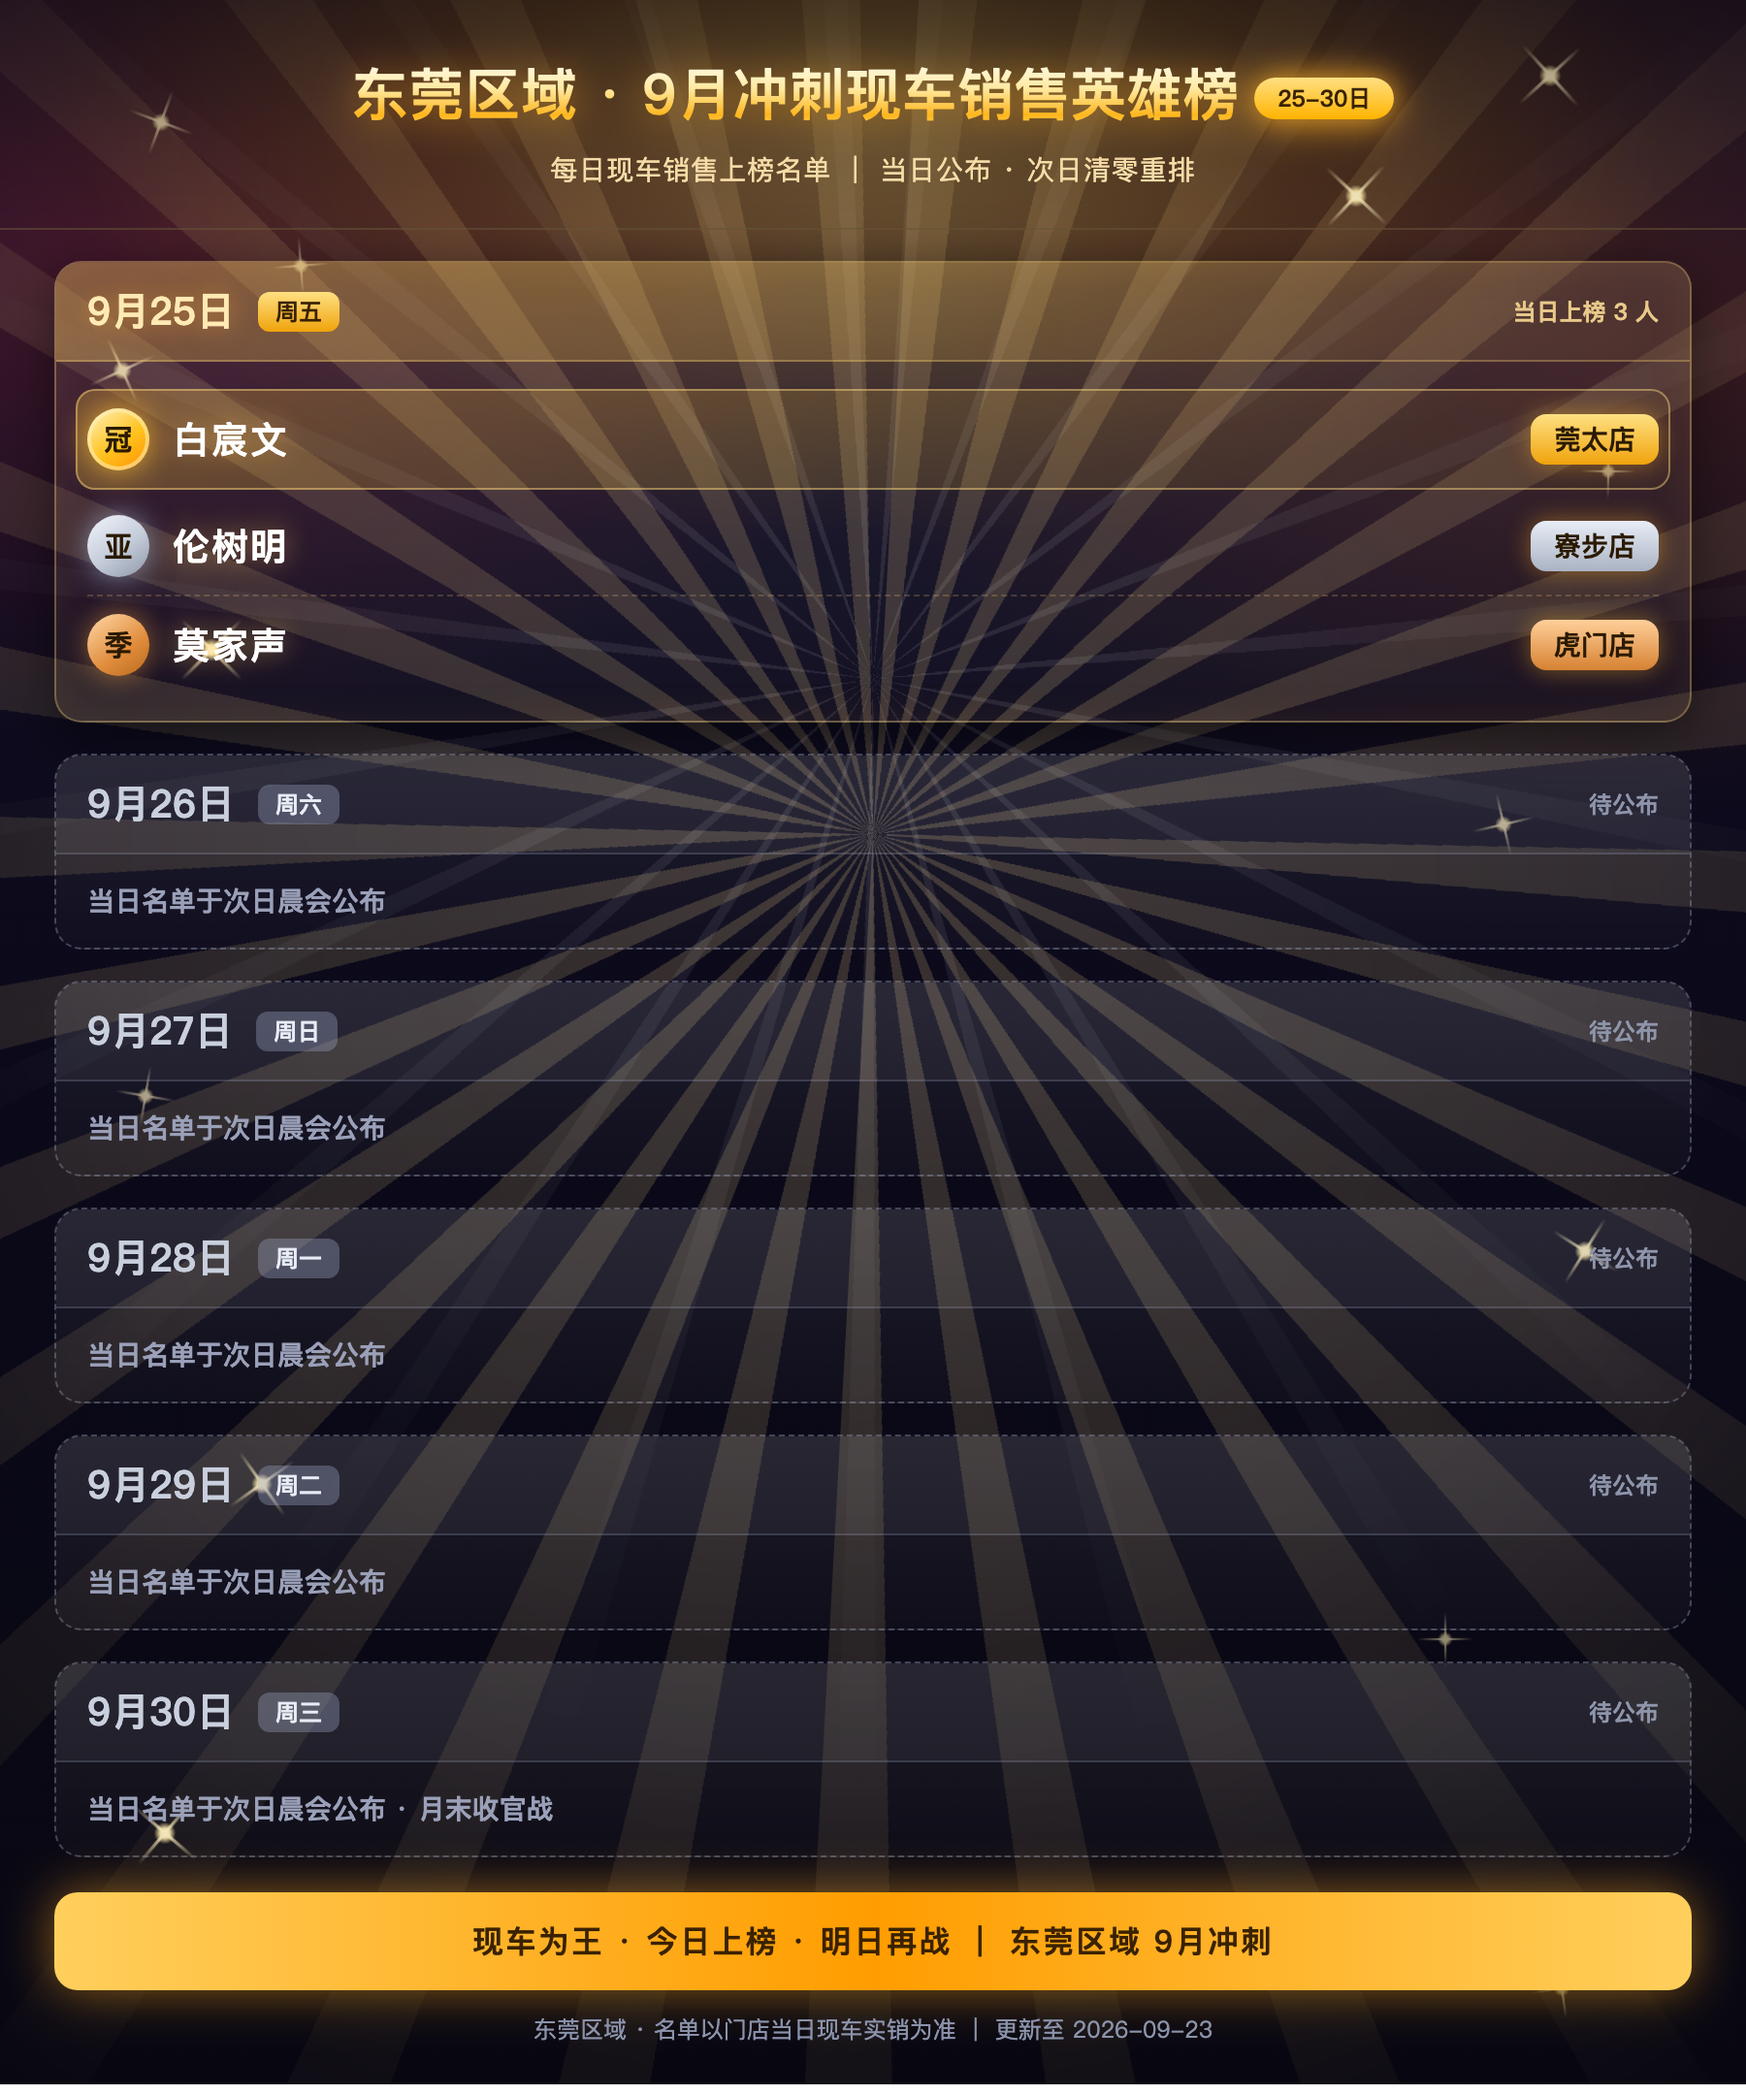
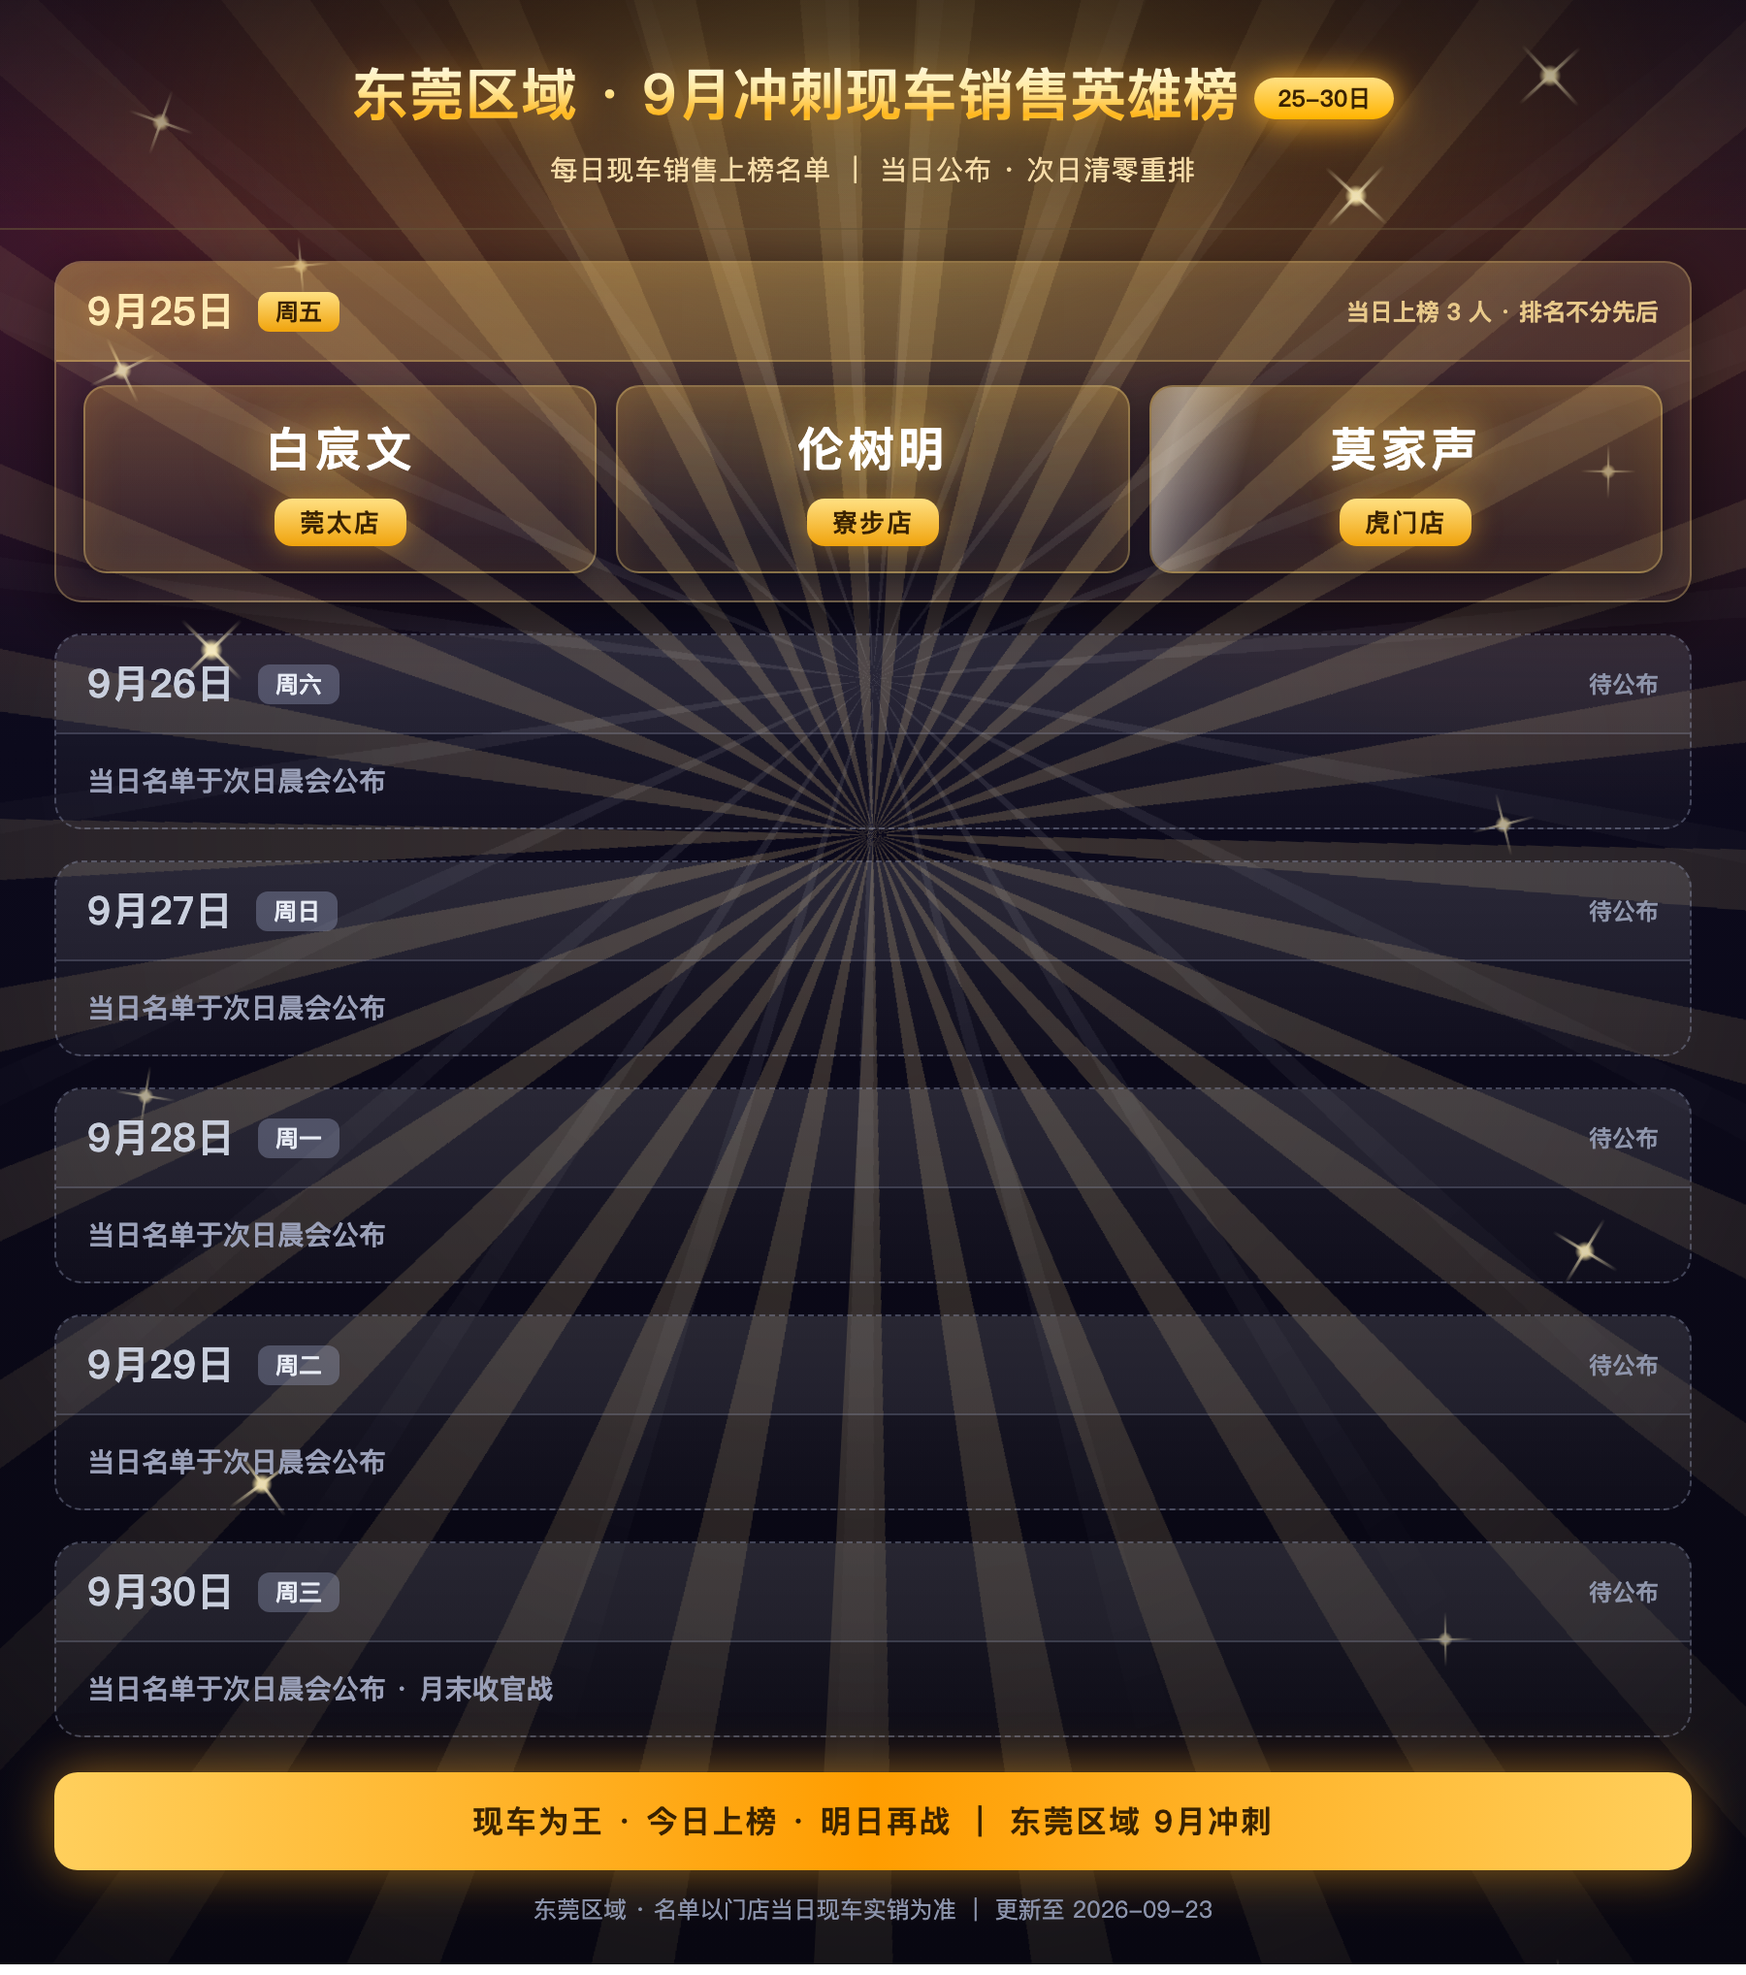
不分名次：三列上榜卡，名字高亮居上、门店金色胶囊居下

diff --git a/index.html b/index.html
@@ -75,26 +75,22 @@
      background:linear-gradient(180deg,#ffe082,#f0a30c);}
   .btag{margin-left:auto;font-size:12px;font-weight:700;color:#e8c98a;}
 
-  .list{padding:10px 16px 14px;}
-  .item{display:flex;align-items:center;gap:12px;padding:9px 0;border-bottom:1px dashed rgba(255,215,120,.20);}
-  .item:last-child{border-bottom:none;}
-  .rk{width:32px;height:32px;border-radius:50%;display:flex;align-items:center;justify-content:center;
-     color:#2b1a00;font-size:15px;font-weight:900;flex:none;}
-  .rk.g1{background:linear-gradient(145deg,#fff3c4,#ffc21e 55%,#ff8f00);box-shadow:0 0 16px rgba(255,190,50,.85),0 0 0 2px rgba(255,240,190,.55) inset;}
-  .rk.g2{background:linear-gradient(145deg,#f2f5fb,#c3cbd9 55%,#8e97a8);box-shadow:0 0 14px rgba(200,215,240,.55);}
-  .rk.g3{background:linear-gradient(145deg,#ffd9a8,#e08c3c 60%,#b96a1e);box-shadow:0 0 14px rgba(230,150,60,.6);}
-  .nm{font-size:19px;font-weight:900;color:#fff;text-shadow:0 0 14px rgba(255,200,90,.45);letter-spacing:1px;}
-  .st{margin-left:auto;font-size:14px;font-weight:800;color:#2b1a00;border-radius:8px;padding:3px 12px;
-     background:linear-gradient(180deg,#ffe082,#f0a30c);box-shadow:0 0 12px rgba(255,180,40,.45);}
-  .st.g2{background:linear-gradient(180deg,#e8edf6,#aab3c4);}
-  .st.g3{background:linear-gradient(180deg,#ffcf9a,#d68232);}
-
-  .item.top{position:relative;margin:4px -6px 4px;padding:10px 6px;border-radius:10px;border-bottom:none;
-     background:linear-gradient(90deg,rgba(255,200,60,.26),rgba(255,200,60,.04));
-     box-shadow:0 0 0 1px rgba(255,220,130,.45) inset;}
-  .item.top::after{content:'';position:absolute;inset:0;border-radius:10px;pointer-events:none;
-     background:linear-gradient(105deg,rgba(255,255,255,0) 30%,rgba(255,255,255,.42) 48%,rgba(255,255,255,0) 62%);
-     animation:shine 3.2s linear infinite;}
+  /* 上榜人卡片：不排名次，名字高亮 + 门店置下 */
+  .list{display:grid;grid-template-columns:repeat(3,1fr);gap:10px;padding:12px 14px 14px;}
+  .hero{position:relative;text-align:center;padding:15px 8px 13px;border-radius:12px;overflow:hidden;
+     background:linear-gradient(180deg,rgba(255,206,84,.20),rgba(255,206,84,.035));
+     border:1px solid rgba(255,215,120,.36);
+     box-shadow:0 0 20px rgba(255,180,60,.14) inset, 0 4px 14px rgba(0,0,0,.35);}
+  .hero::after{content:'';position:absolute;inset:0;pointer-events:none;
+     background:linear-gradient(105deg,rgba(255,255,255,0) 30%,rgba(255,255,255,.40) 48%,rgba(255,255,255,0) 62%);
+     animation:shine 3.4s linear infinite;}
+  .hero:nth-child(2)::after{animation-delay:1.1s;}
+  .hero:nth-child(3)::after{animation-delay:2.2s;}
+  .nm{display:block;font-size:24px;font-weight:900;color:#fff;letter-spacing:2px;
+     text-shadow:0 0 20px rgba(255,205,90,.85), 0 0 44px rgba(255,170,40,.45);}
+  .st{display:inline-block;margin-top:9px;font-size:13px;font-weight:800;color:#3a2200;letter-spacing:1px;
+     border-radius:9px;padding:3px 13px;
+     background:linear-gradient(180deg,#ffe082,#f0a30c);box-shadow:0 0 14px rgba(255,180,40,.5);}
   @keyframes shine{0%{transform:translateX(-120%);}60%,100%{transform:translateX(120%);}}
 
   .empty{padding:14px 16px;color:#9aa0b8;font-size:14px;font-weight:700;}
@@ -123,11 +119,10 @@
     .board{margin:12px 16px 0;}
     .bhead{padding:9px 12px;gap:8px;}
     .bdate{font-size:17px;}
-    .list{padding:8px 12px 10px;}
-    .item{gap:9px;padding:7px 0;}
-    .rk{width:27px;height:27px;font-size:13px;}
-    .nm{font-size:16px;}
-    .st{font-size:12px;padding:2px 9px;}
+    .list{padding:10px 10px 12px;gap:7px;}
+    .hero{padding:11px 4px 10px;border-radius:10px;}
+    .nm{font-size:18px;letter-spacing:1px;}
+    .st{font-size:11.5px;padding:2px 8px;margin-top:7px;}
     .foot{margin:14px 16px 0;padding:11px 12px;font-size:13.5px;}
     .tip{margin:8px 16px 0;font-size:11px;}
     .spark::before{width:26px;} .spark::after{height:26px;}
@@ -163,12 +158,12 @@
   <section class='board'>
     <div class='bhead'>
       <span class='bdate'>9月25日</span><span class='bwk'>周五</span>
-      <span class='btag'>当日上榜 3 人</span>
+      <span class='btag'>当日上榜 3 人 · 排名不分先后</span>
     </div>
     <div class='list'>
-      <div class='item top'><span class='rk g1'>冠</span><span class='nm'>白宸文</span><span class='st'>莞太店</span></div>
-      <div class='item'><span class='rk g2'>亚</span><span class='nm'>伦树明</span><span class='st g2'>寮步店</span></div>
-      <div class='item'><span class='rk g3'>季</span><span class='nm'>莫家声</span><span class='st g3'>虎门店</span></div>
+      <div class='hero'><span class='nm'>白宸文</span><span class='st'>莞太店</span></div>
+      <div class='hero'><span class='nm'>伦树明</span><span class='st'>寮步店</span></div>
+      <div class='hero'><span class='nm'>莫家声</span><span class='st'>虎门店</span></div>
     </div>
   </section>
 
